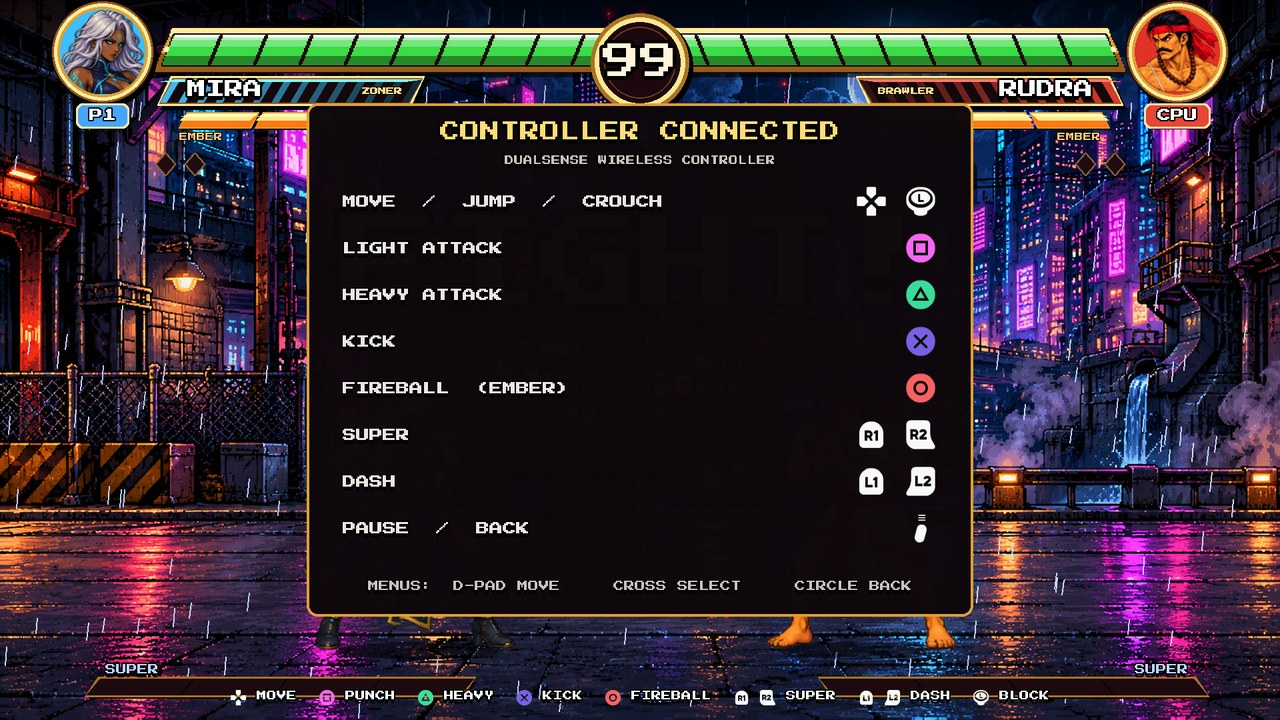
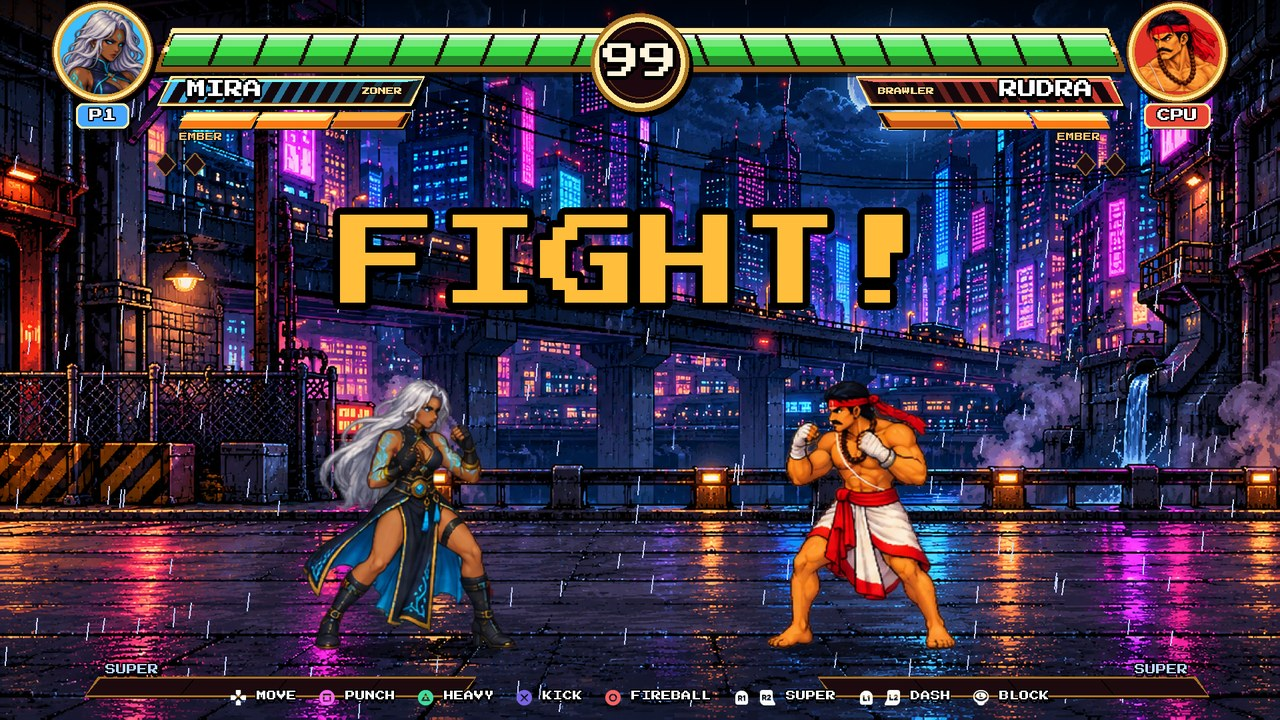
fix: remove controller popup from screenshots, remove emojis, add releases section and workflow release upload

diff --git a/ember/app.py b/ember/app.py
@@ -175,6 +175,8 @@ class App:
         return n > 2500
 
     def draw_pad_toast(self):
+        if getattr(self.args, "headless", False) or getattr(self.args, "shot", None):
+            return
         msg, left = PADS.toast
         if left > 0:
             PADS.toast = (msg, left - 1)
@@ -225,6 +227,8 @@ class App:
         return panel
 
     def draw_pad_help(self):
+        if getattr(self.args, "headless", False) or getattr(self.args, "shot", None):
+            return
         if PADS.help <= 0:
             return
         PADS.help -= 1

diff --git a/README.md b/README.md
@@ -9,7 +9,7 @@
   </p>
 
   <p>
-    <a href="#-quick-download-windows-exe"><img src="https://img.shields.io/badge/Platform-Windows%20x64%20|%20macOS%20|%20Linux-0078D6?style=for-the-badge&logo=windows&logoColor=white" alt="Platform Support" /></a>
+    <a href="https://github.com/skrehanahamed/EmberTournament/releases"><img src="https://img.shields.io/badge/Platform-Windows%20x64%20|%20macOS%20|%20Linux-0078D6?style=for-the-badge&logo=windows&logoColor=white" alt="Platform Support" /></a>
     <a href="https://github.com"><img src="https://img.shields.io/badge/Python-3.10%20|%203.11%20|%203.12-3776AB?style=for-the-badge&logo=python&logoColor=white" alt="Python Version" /></a>
     <a href="https://pyga.me"><img src="https://img.shields.io/badge/Engine-pygame--ce-ED2939?style=for-the-badge" alt="Pygame-CE" /></a>
     <a href="https://github.com/skrehanahamed/EmberTournament/actions/workflows/windows-exe.yml"><img src="https://github.com/skrehanahamed/EmberTournament/actions/workflows/windows-exe.yml/badge.svg" alt="Build Windows EXE" /></a>
@@ -17,20 +17,44 @@
   </p>
 
   <p>
-    <a href="#-quick-download-windows-exe"><b>Download Game (.exe)</b></a> •
-    <a href="#-game-screenshots"><b>Screenshots</b></a> •
-    <a href="#-fighter-roster"><b>Fighter Roster</b></a> •
-    <a href="#-game-modes"><b>Modes</b></a> •
-    <a href="#-controls--combos"><b>Controls</b></a> •
-    <a href="#-run-from-source"><b>Run from Source</b></a> •
-    <a href="#-github-actions--automated-exe-build"><b>GitHub Actions CI/CD</b></a>
+    <a href="#releases-and-downloads"><b>Download Releases (.exe)</b></a> •
+    <a href="#game-screenshots"><b>Screenshots</b></a> •
+    <a href="#fighter-roster"><b>Fighter Roster</b></a> •
+    <a href="#game-modes"><b>Modes</b></a> •
+    <a href="#controls-and-combos"><b>Controls</b></a> •
+    <a href="#run-from-source-macos-linux-windows"><b>Run from Source</b></a> •
+    <a href="#github-actions-automated-windows-exe-build"><b>CI/CD Build</b></a>
   </p>
 
 </div>
 
 ---
 
-## 📸 Game Screenshots
+## Releases and Downloads
+
+Pre-compiled Windows builds are automatically compiled and published through GitHub Actions. Python installation is not required to play.
+
+* **Latest Release**: [Download from GitHub Releases](https://github.com/skrehanahamed/EmberTournament/releases/latest)
+* **All Releases & Build Artifacts**: [View All Releases](https://github.com/skrehanahamed/EmberTournament/releases)
+
+### Available Release Files
+
+| File | Description | Recommended For |
+| :--- | :--- | :--- |
+| **`EmberTournament-Windows-x64.zip`** | Complete standalone package with game executable, assets, audio, and dependencies. | **Recommended**: Extract and double-click `EmberTournament.exe` to play. |
+| **`EmberTournament.exe`** | Standalone Windows application binary. | Direct executable file. |
+
+### How to Install and Play on Windows
+
+1. Download **`EmberTournament-Windows-x64.zip`** from the [Latest Release](https://github.com/skrehanahamed/EmberTournament/releases/latest).
+2. Right-click the downloaded `.zip` file and select **Extract All...**.
+3. Open the extracted folder and double-click **`EmberTournament.exe`** to launch the game.
+
+You can also download individual build artifacts directly from completed runs in the [Actions tab](https://github.com/skrehanahamed/EmberTournament/actions).
+
+---
+
+## Game Screenshots
 
 <div align="center">
   <table border="0">
@@ -51,13 +75,13 @@
       </td>
       <td width="50%">
         <img src="docs/images/select.jpg" alt="Character Select Screen" width="100%"/>
-        <p align="center"><em>Character Selection & Fighter Archetypes</em></p>
+        <p align="center"><em>Character Selection and Fighter Archetypes</em></p>
       </td>
     </tr>
     <tr>
       <td width="50%">
         <img src="docs/images/title.jpg" alt="Title Screen" width="100%"/>
-        <p align="center"><em>Title Screen & Ambient Embers</em></p>
+        <p align="center"><em>Title Screen and Ambient Embers</em></p>
       </td>
       <td width="50%">
         <img src="docs/images/story_preview.jpg" alt="Arcade Story Cutscene" width="100%"/>
@@ -69,22 +93,22 @@
 
 ---
 
-## ⚡ Game Features
+## Game Features
 
 * **Authentic 2D Fighting Engine**: Fixed-timestep 60 FPS physics, block-stun, hit-stun, corner pushback, jump arcs, and attack priority.
-* **Combo & Cancel System**: Cancel normal attacks into heavy strikes, kicks, and devastating fireball specials on hit-confirm.
-* **Cinematic Supers & Finishers**: Charge your Ember Meter through combat to trigger screen-shattering Super Moves and match-winning cinematic Finishers.
-* **Full Controller Support**: Plug-and-play support for PlayStation DualSense (PS5), Xbox Wireless Controllers, and standard PC gamepads with custom vibration/rumble feedback and on-screen button prompts.
-* **Hardware GPU Scaling**: Native 1920×1080 internal resolution smoothly presented in resizable windowed or borderless fullscreen modes.
-* **Full Audio & Voice Acting**: Custom sound effects, dynamic punch/kick impacts, stage music, and voice-acted story narration.
+* **Combo and Cancel System**: Cancel normal attacks into heavy strikes, kicks, and fireball specials on hit-confirm.
+* **Cinematic Supers and Finishers**: Charge your Ember Meter through combat to trigger screen-shattering Super Moves and match-winning cinematic Finishers.
+* **Full Controller Support**: Plug-and-play support for PlayStation DualSense (PS5), Xbox Wireless Controllers, and standard PC gamepads with vibration feedback and on-screen button prompts.
+* **Hardware GPU Scaling**: Native 1920x1080 internal resolution smoothly presented in resizable windowed or borderless fullscreen modes.
+* **Full Audio and Voice Acting**: Custom sound effects, dynamic punch/kick impacts, stage music, and voice-acted story narration.
 
 ---
 
-## 👥 Fighter Roster
+## Fighter Roster
 
 Six unique martial artists with distinct archetypes, hitboxes, frame data, and special moves:
 
-| Fighter | Archetype | Style & Lore | Super Move & Finisher |
+| Fighter | Archetype | Style and Lore | Super Move and Finisher |
 | :---: | :---: | :--- | :--- |
 | <img src="docs/images/portraits/reno.png" width="90" height="90" alt="Reno"/> <br/> **RENO** | **All-Rounder** | An ordinary brawler with an extraordinary temper. Signs every fireball and strike with a blazing neon "R". | **Super**: *R-Sign Blast*<br/>**Finisher**: *R-Sign Annihilation* |
 | <img src="docs/images/portraits/kaito.png" width="90" height="90" alt="Kaito"/> <br/> **KAITO** | **All-Rounder** | A young monk who lost his master and his sacred blade. Fights with disciplined dragon-flame fists. | **Super**: *Dragon Breath*<br/>**Finisher**: *Dragon Fist of Embers* |
@@ -95,7 +119,7 @@ Six unique martial artists with distinct archetypes, hitboxes, frame data, and s
 
 ---
 
-## 🏛 Stages
+## Stages
 
 | Neon City | Sunset Shrine | Volcanic Ruins |
 | :---: | :---: | :---: |
@@ -104,7 +128,7 @@ Six unique martial artists with distinct archetypes, hitboxes, frame data, and s
 
 ---
 
-## 🎮 Game Modes
+## Game Modes
 
 * **Arcade Story Mode**: Embark on a 7-chapter narrative journey as Reno. Battle through the tournament ranks, uncover the secret of the Dragon Cores, and defeat the Hollow Emperor in a climactic showdown. Features voiced dialogue and chapter art.
 * **Versus CPU**: Test your skills against computer-controlled opponents across three selectable difficulty levels (*Easy*, *Normal*, *Hard*).
@@ -114,14 +138,14 @@ Six unique martial artists with distinct archetypes, hitboxes, frame data, and s
 
 ---
 
-## 🕹 Controls & Combos
+## Controls and Combos
 
 ### Keyboard Controls
 
 | Action | Player 1 | Player 2 |
 | :--- | :---: | :---: |
-| **Move Left / Right** | <kbd>A</kbd> / <kbd>D</kbd> | <kbd>←</kbd> / <kbd>→</kbd> |
-| **Jump / Crouch** | <kbd>W</kbd> / <kbd>S</kbd> | <kbd>↑</kbd> / <kbd>↓</kbd> |
+| **Move Left / Right** | <kbd>A</kbd> / <kbd>D</kbd> | <kbd>Left</kbd> / <kbd>Right</kbd> |
+| **Jump / Crouch** | <kbd>W</kbd> / <kbd>S</kbd> | <kbd>Up</kbd> / <kbd>Down</kbd> |
 | **Block** | Hold away from opponent | Hold away from opponent |
 | **Light Punch** | <kbd>F</kbd> | <kbd>J</kbd> |
 | **Heavy Punch** | <kbd>G</kbd> | <kbd>K</kbd> |
@@ -139,15 +163,15 @@ Gamepads are automatically recognized upon plugging in or pairing over Bluetooth
 | Button (PlayStation) | Button (Xbox) | Action |
 | :--- | :--- | :--- |
 | **D-Pad / Left Stick** | **D-Pad / Left Stick** | Move, Jump, Crouch (Double-tap left/right to Dash) |
-| **Square (□)** | **X** | Light Attack |
-| **Triangle (△)** | **Y** | Heavy Attack |
-| **Cross (✕)** | **A** | Kick |
-| **Circle (○)** | **B** | Fireball Special (Ember) |
+| **Square** | **X** | Light Attack |
+| **Triangle** | **Y** | Heavy Attack |
+| **Cross** | **A** | Kick |
+| **Circle** | **B** | Fireball Special (Ember) |
 | **R1 / R2** | **RB / RT** | Super Move |
 | **L1 / L2** | **LB / LT** | Quick Dash |
 | **Options / Start** | **Menu / Start** | Pause Match / Menu Back |
 
-### Special Moves & Combo Execution
+### Special Moves and Combo Execution
 
 * **Quarter-Circle Fireball**: Tap <kbd>Down</kbd>, <kbd>Down+Forward</kbd>, <kbd>Forward</kbd> + <kbd>Punch</kbd> (or hit your assigned Special button).
 * **Hit Cancels**: Connect with a **Light Attack**, then immediately input **Heavy**, **Kick**, or **Fireball** to cancel recovery frames into a fluid combo sequence.
@@ -155,18 +179,7 @@ Gamepads are automatically recognized upon plugging in or pairing over Bluetooth
 
 ---
 
-## 📦 Quick Download: Windows (.exe)
-
-You do **not** need Python installed to play the pre-compiled Windows version:
-
-1. Go to the **[Actions Tab](../../actions)** in this repository (or check the **Releases** section on the right).
-2. Click the latest successful build under **"Build Windows EXE"**.
-3. Under **Artifacts**, download **`EmberTournament-Windows-x64`**.
-4. Unzip the downloaded file and double-click **`EmberTournament.exe`** to launch the game!
-
----
-
-## 💻 Run from Source (macOS, Linux, Windows)
+## Run from Source (macOS, Linux, Windows)
 
 ### Prerequisites
 
@@ -219,15 +232,17 @@ python main.py --help
 
 ---
 
-## 🚀 GitHub Actions: Automated Windows EXE Build
+## GitHub Actions: Automated Windows EXE Build
 
-This repository includes a pre-configured, production-ready continuous integration workflow in [`.github/workflows/windows-exe.yml`](.github/workflows/windows-exe.yml).
+This repository includes continuous integration in [`.github/workflows/windows-exe.yml`](.github/workflows/windows-exe.yml).
 
 ### How It Works:
-1. **Automated Triggers**: Runs automatically whenever code is pushed to `main` or `master`, on pull requests, or when a release tag (`v*`) is created.
-2. **Manual Trigger (`workflow_dispatch`)**: You can trigger a new Windows build at any time by navigating to **GitHub Actions** → **Build Windows EXE** → **Run workflow**.
-3. **Artifact Packaging**: The runner installs dependencies on `windows-latest`, compiles a self-contained executable with PyInstaller (embedding custom window icons and assets), and packages it into `EmberTournament-Windows-x64.zip`.
-4. **Automated Releases**: Pushing a git tag (e.g., `git tag v1.0.0 && git push origin v1.0.0`) automatically publishes a formal GitHub Release with the standalone ZIP attached!
+1. **Automated Triggers**: Runs automatically on pushes to `main` or `master`, on pull requests, or when a release tag (`v*`) is created.
+2. **Manual Trigger (`workflow_dispatch`)**: Trigger a new Windows build at any time via **GitHub Actions** -> **Build Windows EXE** -> **Run workflow**.
+3. **Artifact and Release Packaging**: The runner installs dependencies on `windows-latest`, compiles a self-contained executable with PyInstaller embedding the application icon and data assets, and creates:
+   - `EmberTournament.exe`
+   - `EmberTournament-Windows-x64.zip`
+4. **Automated Releases**: The workflow publishes both files directly to [GitHub Releases](https://github.com/skrehanahamed/EmberTournament/releases) on every build of `main` and on version tags.
 
 ### Building Locally on Windows
 
@@ -239,51 +254,26 @@ The compiled game will be generated in `dist\EmberTournament\EmberTournament.exe
 
 ---
 
-## 📤 Uploading This Game to GitHub (Step-by-Step)
-
-To upload this repository to GitHub for the first time:
-
-```bash
-# 1. Initialize git in this directory (if not already initialized)
-git init -b main
-
-# 2. Stage all project files (ignoring build folders & caches automatically via .gitignore)
-git add .
-
-# 3. Create your initial commit
-git commit -m "Initial commit: Ember Tournament 1080p fighting game"
-
-# 4. Create a new repository on github.com, then connect your local repo
-git remote add origin https://github.com/skrehanahamed/EmberTournament.git
-
-# 5. Push code to GitHub
-git push -u origin main
-```
-
-Once pushed, GitHub Actions will automatically start building the Windows `.exe` under the **Actions** tab!
-
----
-
-## 📁 Project Structure
+## Project Structure
 
 ```
 ├── .github/workflows/
 │   └── windows-exe.yml     # Automated GitHub Actions workflow for Windows EXE
 ├── docs/images/            # High-resolution screenshots, portraits, stages, and logo
-├── ember/                  # Core game engine & state modules
-│   ├── app.py              # Main application loop, display & scaling
+├── ember/                  # Core game engine and state modules
+│   ├── app.py              # Main application loop, display and scaling
 │   ├── assets.py           # Frame slicing, animation loader, font caching
 │   ├── audio.py            # Sound manager, BGM streaming, SFX pooling
 │   ├── constants.py        # Physics constants, palettes, character stats
 │   ├── fighter.py          # State machine, collision boxes, combos, supers
-│   ├── gamepad.py          # SDL controller abstraction, haptics & rumble
+│   ├── gamepad.py          # SDL controller abstraction, haptics and rumble
 │   ├── hud.py              # Health gauges, timer, combo counter, supers
-│   ├── input.py            # Input buffering, keyboard & AI controllers
-│   ├── screens.py          # Title, Character Select, Fight, & Results scenes
+│   ├── input.py            # Input buffering, keyboard and AI controllers
+│   ├── screens.py          # Title, Character Select, Fight, and Results scenes
 │   ├── settings.py         # Persistent configuration (~/.ember_tournament)
-│   └── story.py            # Arcade story runner & narrative cutscenes
+│   └── story.py            # Arcade story runner and narrative cutscenes
 ├── data/                   # Bundled production game assets (audio, sprites, fonts)
-├── Assets/                 # Raw sprite sheets & master audio sources
+├── Assets/                 # Raw sprite sheets and master audio sources
 ├── tools/                  # Asset pipeline tools (sprite slicers, voice tools)
 ├── icon.ico                # Official Windows application icon
 ├── build_windows.bat       # Local one-click Windows compiler script
@@ -295,10 +285,10 @@ Once pushed, GitHub Actions will automatically start building the Windows `.exe`
 
 ---
 
-## 📜 Credits & License
+## Credits and License
 
 * **Engine**: Built with [pygame-ce](https://pyga.me/) (Community Edition).
 * **Font**: *Press Start 2P* by CodeMan38 (SIL Open Font License).
 * **Gamepad Icons**: Kenney *Input Prompts* (CC0 Public Domain).
-* **Audio & Music**: CC0 Public Domain compositions by Kenney, Pompei2, Tozan, and CleytonRX (see `Assets/audio_src/CREDITS.md`).
+* **Audio and Music**: CC0 Public Domain compositions by Kenney, Pompei2, Tozan, and CleytonRX (see `Assets/audio_src/CREDITS.md`).
 * **Game Code**: Open source under the [MIT License](LICENSE).
